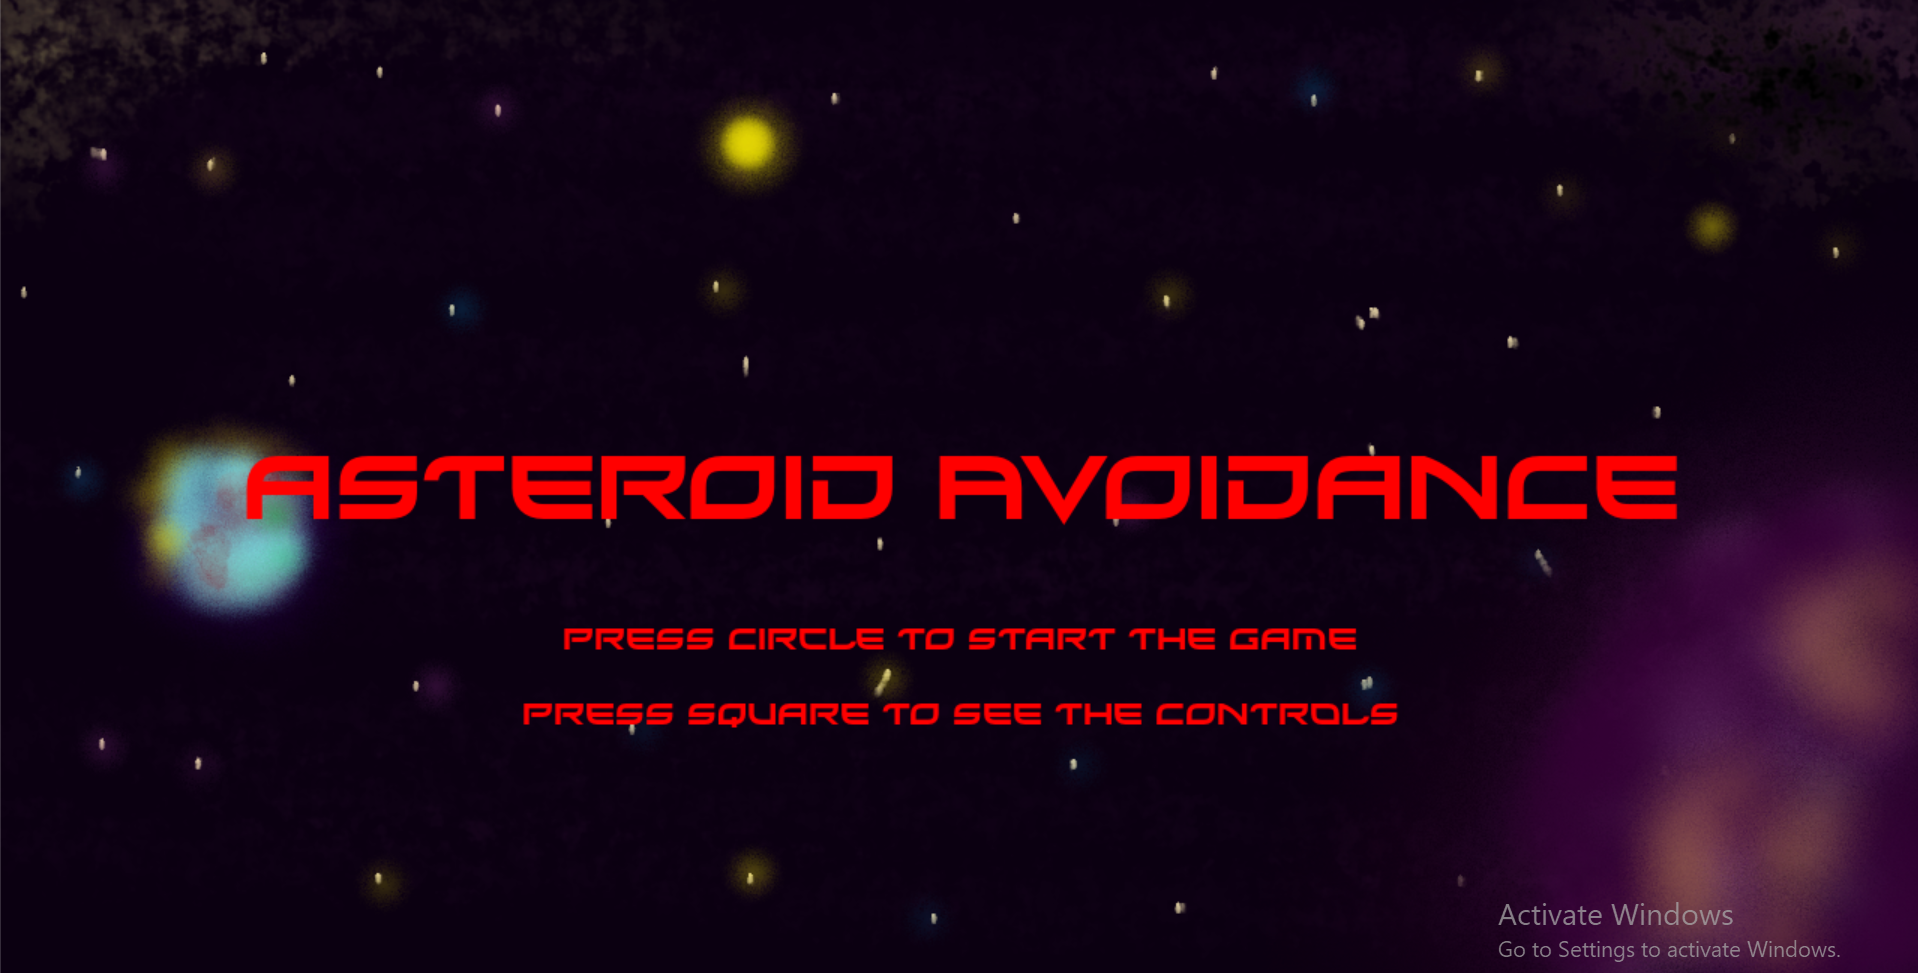
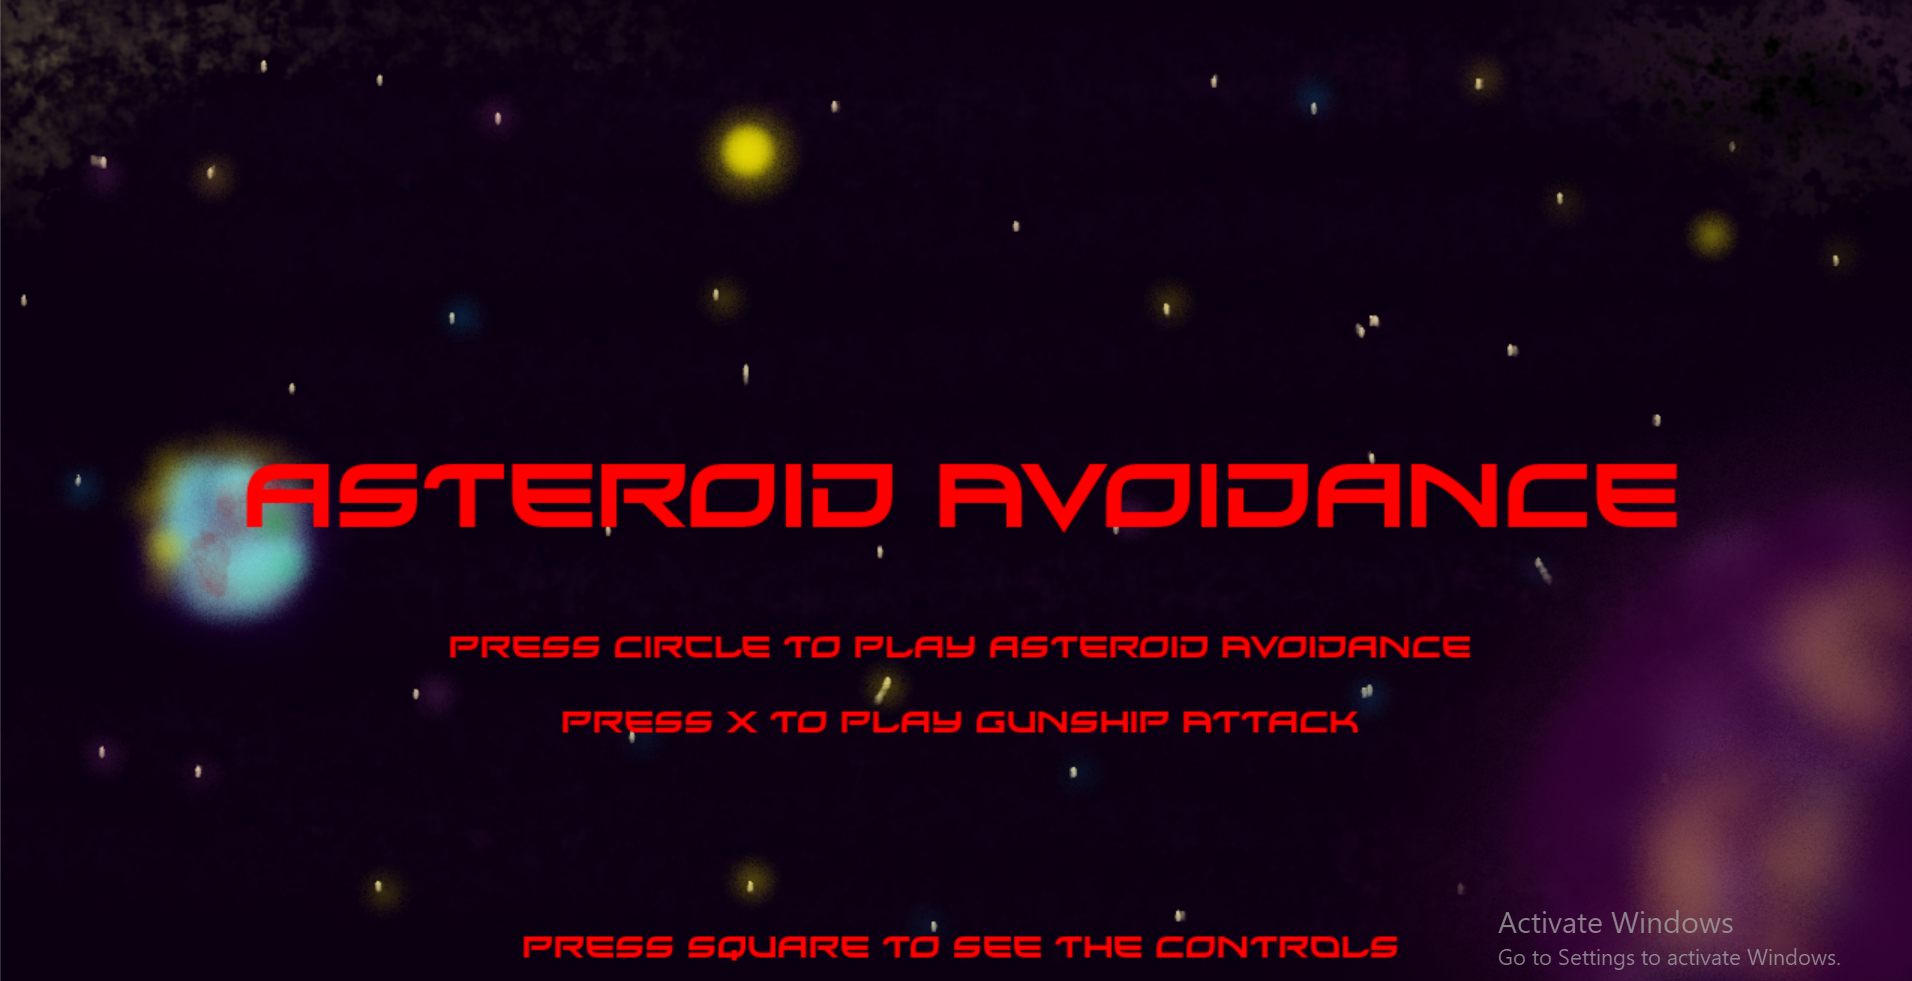
game done, updated readme and made the gunship attack a little easier

diff --git a/characters.py b/characters.py
@@ -63,17 +63,17 @@ def reset_asteroid():
 def reset_game(asteroid_group, enemy_group,player1):
     for a in asteroid_group:
         a.kill()
-    for a in range(100):
+    for a in range(120):
         asteroid_group.add(Asteroid(reset_asteroid()[0],reset_asteroid()[1]))
     for e in enemy_group:
         e.kill()
-    for e in range (5):
+    for e in range (3):
         enemy_group.add(Enemy_Easy(reset_asteroid()[0],reset_asteroid()[1], player1, 'assets/images/Enemies/enemyBlack1.png'))
 def enemy_waves(wave):
     if wave > 8:
         enemy_type = 'extreme'
         file = 'assets/images/Enemies/enemyBlack2.png'
-        enemies = 8
+        enemies = 9
     elif wave > 7:
         enemy_type = 'hard'
         file = 'assets/images/Enemies/enemyBlack4.png'
@@ -85,18 +85,18 @@ def enemy_waves(wave):
     elif wave > 4:
         enemy_type = 'medium'
         file = 'assets/images/Enemies/enemyBlack5.png'
-        enemies = 7
+        enemies = 6
     elif wave > 2:
         enemy_type = 'medium'
         file = 'assets/images/Enemies/enemyBlack5.png'
-        enemies = 6
+        enemies = 5
     elif wave > 1:
         enemy_type = 'easy'
         file = 'assets/images/Enemies/enemyBlack1.png'
-        enemies = 6
+        enemies = 4
     else:    
         file = 'assets/images/Enemies/enemyBlack1.png'
-        enemies = 5
+        enemies = 3
         enemy_type = 'easy'
     return file, enemies, enemy_type
 
@@ -134,6 +134,7 @@ class Player:
         try:
             self.image = pygame.transform.rotozoom(self.og_image, math.degrees(self.theta)+90,0.6)
         except:
+            print('exception in class')
             self.image = self.og_image
 
         #update the rect and add player to the screen
@@ -335,6 +336,7 @@ class Enemy_Easy(pygame.sprite.Sprite):
         self.ogimage = pygame.image.load(self.file_path)
         self.ogimage = pygame.transform.rotozoom(self.ogimage, 0, 0.7)
         self.rect = self.ogimage.get_rect()
+        self.bad_laser_sound = pygame.mixer.Sound('assets/Audio/laserSmall_001.ogg')
         self.x = x
         self.y = y
         self.speed = 2
@@ -396,34 +398,27 @@ class Enemy_Easy(pygame.sprite.Sprite):
         self.y += self.vy
         self.rect.center = (self.x,self.y)
         self.bad_lasers.update()
+    
+    def update(self):
+        if self.time_since_tracked == 0:
+                self.theta = randint(0,360)
+        if pygame.time.get_ticks() - self.time_since_tracked >= self.trackingtime:
+                self.tracking = randint(0,1)
+                self.time_since_tracked = pygame.time.get_ticks()
+                if self.tracking == 0:
+                    self.trackingtime = randint(2000,6000)
+                elif self.tracking == 1:
+                    self.trackingtime = randint(2000,4500)
+        if self.tracking == 1:
+                self.track()
+                if pygame.time.get_ticks() - self.time_since_shot >= self.laser_cooldown_time:  
+                    self.shoot()
+                    self.bad_laser_sound.play()
+                    self.time_since_shot = pygame.time.get_ticks()
+                    self.laser_cooldown_time = randint(1000,5000)
+        else:
+                self.go_straight()
+        if self.x > WIDTH + 50 or self.x < -50 or self.y > HEIGHT + 50 or self.y < -50:
+                self.track()
 
-
-
-
-
-class Enemy_Medium:
-    def __init__(self, x, y):
-        self.file_path = 'assets/images/playerShip2_red.png'
-        self.image = pygame.image.load(self.file_path)
-        self.rect = self.image.get_rect()
-        self.x = x
-        self.y = y
-        self.rect.center = (x,y)
-        self.speed = 2
-    def draw(self,screen):
-        screen.blit(self.image, self.rect)
-
-
-
-class Enemy_Hard:
-    def __init__(self, x, y):
-        self.file_path = 'assets/images/playerShip1_red.png'
-        self.image = pygame.image.load(self.file_path)
-        self.rect = self.image.get_rect()
-        self.x = x
-        self.y = y
-        self.rect.center = (x,y)
-        self.speed = 3
-    def draw(self,screen):
-        screen.blit(self.image, self.rect)
 

diff --git a/game.py b/game.py
@@ -25,11 +25,10 @@ player1 = Player(randint(0,WIDTH), randint(0,HEIGHT),asteroid_group)
 explosion = Explosion()
 #enemies
 easy_enemy = Enemy_Easy(randint(0,WIDTH), randint(0,HEIGHT), player1, 'assets/images/Enemies/enemyBlack1.png')
-medium_enemy = Enemy_Medium(randint(0,WIDTH), randint(0,HEIGHT))
-hard_enemy = Enemy_Hard(randint(0,WIDTH), randint(0,HEIGHT))
+
 #enemy group
 enemy_group = pygame.sprite.Group()
-for e in range (5):
+for e in range (3):
     enemy_group.add(Enemy_Easy(reset_asteroid()[0],reset_asteroid()[1], player1, 'assets/images/Enemies/enemyBlack1.png'))
 
 player1.enemy_group = enemy_group
@@ -63,7 +62,7 @@ start_time = 0
 previous_time_score = 0
 time_score = 0
 time_since_tracked = 0
-laser_cooldown_time = 750
+laser_cooldown_time = 650
 tracking = 0
 wave = 0
 enemies = 0
@@ -92,6 +91,7 @@ while running:
             left_right = 0
             up_down = 0
             right_trigger = 0
+            print('exception in game')
     #if the game has started, this where things move
     if state == 'level1':
         previous_time_score = time_score
@@ -148,32 +148,18 @@ while running:
         
         for a in asteroid_group:
             if a.vx > 0:
-                a.vx += time_score/50000
+                a.vx += time_score/45000
             elif a.vx < 0:
-                a.vx -= time_score/50000
+                a.vx -= time_score/45000
             if a.vy > 0:
-                a.vy += time_score/50000
+                a.vy += time_score/45000
             elif a.vy < 0:
-                a.vy -= time_score/50000
+                a.vy -= time_score/45000
             
         
         #if player dies set the state to dead
         if player1.lives <= 0:
             state = 'dead'
-        
-        
-        #optional, uncomment these to show the rects of all objects, also mask of asteroid
-        '''#to see asteroid mask
-        for a in asteroid_group:
-            a.draw(screen)
-      #''''''  
-        #draw the rects
-        for l in player1.lasers:
-            pygame.draw.rect(screen,(255,255,255),l.rect,1)
-        pygame.draw.rect(screen,(255,255,255),player1.rect,1)
-        for a in asteroid_group:
-            pygame.draw.rect(screen,(255,255,255),a.rect,1)
-    '''
             
     
     #player dies, game over screen, allows to go to main menu by pressing triangle
@@ -269,26 +255,7 @@ while running:
         text.update_score(score)
         #enemy movement code
         for e in enemy_group:
-            if e.time_since_tracked == 0:
-                e.theta = randint(0,360)
-            if runtime - e.time_since_tracked >= e.trackingtime:
-                e.tracking = randint(0,1)
-                e.time_since_tracked = runtime
-                if e.tracking == 0:
-                    e.trackingtime = randint(2000,6000)
-                elif e.tracking == 1:
-                    e.trackingtime = randint(2000,4500)
-            if e.tracking == 1:
-                e.track()
-                if runtime - e.time_since_shot >= e.laser_cooldown_time:  
-                    e.shoot()
-                    bad_laser_sound.play()
-                    e.time_since_shot = runtime
-                    e.laser_cooldown_time = randint(1000,5000)
-            else:
-                e.go_straight()
-            if e.x > WIDTH + 50 or e.x < -50 or e.y > HEIGHT + 50 or e.y < -50:
-                e.track()
+            e.update()
             e.draw(screen)
         
         #explosion code

diff --git a/README.md b/README.md
@@ -1,11 +1,16 @@
-# GAME NAME
-Asteroid Avoidance
+# Asteroid Avoidance / Gunship Attack
 ![screenshot](assets/Title_screen.png)
 ## Directions
-1. Avoid the moving asteroids!
+1. Asteroid Avoidance: Avoid the moving asteroids!
 ![screenshot](assets/Gameplay.png)
+2. Gunship Attack: Shoot the enemy ships!
+![screenshot](assets/Gameplay2.png)
 ### Controls
 1. Use the left Joystick to move around
 2. Right Trigger is to boost (go faster)
 3. X button is to shoot
 ![screenshot](assets/Controls.png)
+
+### Notes:
+1. You need a controller plugged in to move the player, the program is made for a Ps5 controller, I can lend a controller if needed to play the game
+2. You can still see the two different games by changing the 'state' variable on line 71 of game.py to either 'level1' or 'level2'
